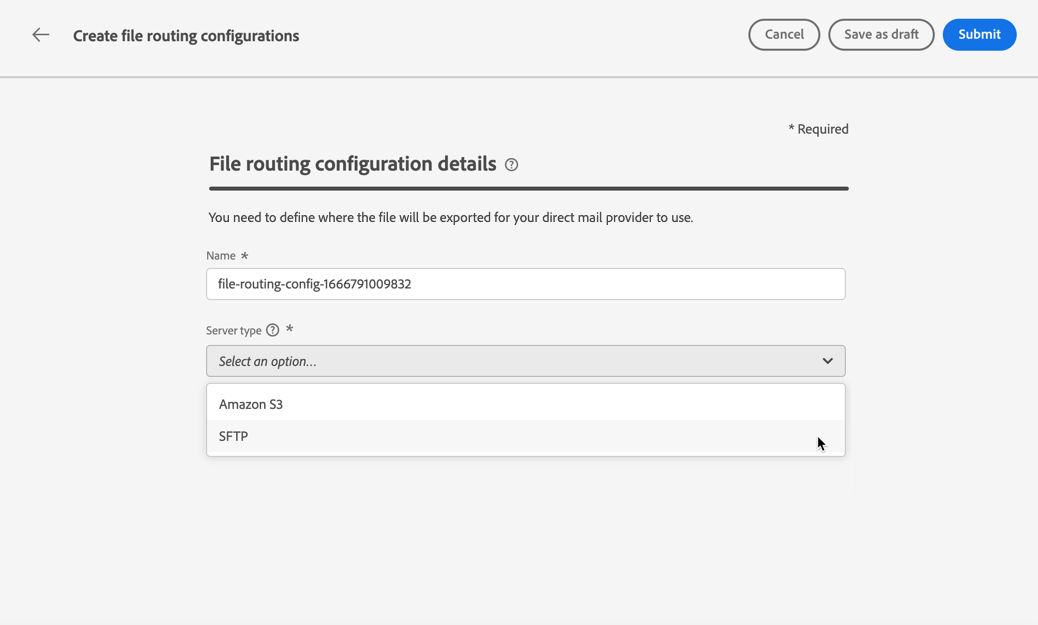
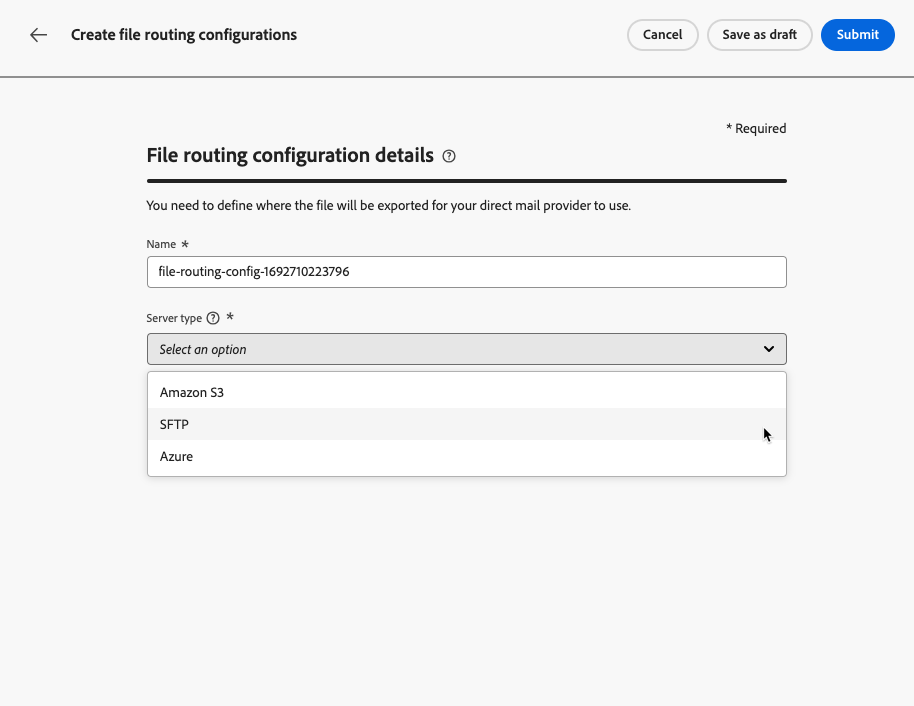
Azure/Ampersand updates for DM (#1372)

diff --git a/help/using/direct-mail/direct-mail-configuration.md b/help/using/direct-mail/direct-mail-configuration.md
@@ -30,9 +30,7 @@ Before being able to generate this file, you need to create:
 >id="ajo_dm_file_routing_details"
 >title="Define the file routing configuration"
 >abstract="After you create a direct mail message, the file containing the targeted audience data will be generated and exported to a server. You need to specify the server details so that your direct mail provider can access and use that file for delivering direct mail."
-
-<!--
->additional-url="https://experienceleague.adobe.com/docs/journey-optimizer/using/direct-mail/create-direct-mail.html" text="Create a direct mail message"-->
+>additional-url="https://experienceleague.adobe.com/docs/journey-optimizer/using/direct-mail/create-direct-mail.html" text="Create a direct mail message"
 
 >[!CONTEXTUALHELP]
 >id="ajo_dm_file_routing_details_header"
@@ -72,7 +70,7 @@ To configure the file routing, follow the steps below.
 
     >[!NOTE]
     >
-    >Currently Amazon S3 and SFTP<!--and Azure--> are supported in [!DNL Journey Optimizer].
+    >Currently Amazon S3 and SFTP and Azure are supported in [!DNL Journey Optimizer].
 
 1. Fill in the details and credentials for your server, such as server address, access key, etc.
 
@@ -129,7 +127,7 @@ A direct mail surface must also include the file routing configuration which def
 
 1. Select the file format: **[!UICONTROL CSV]** or **[!UICONTROL Text delimited]**.
 
-1. If you select **[!UICONTROL Text delimited]**, define the column separator of your choice: tabulation, semicolon, or pipe<!--or ampersand-->.
+1. If you select **[!UICONTROL Text delimited]**, define the column separator of your choice: tabulation, semicolon, pipe, or ampersand.
 
     ![](assets/surface-direct-mail-column-separator.png)
 
